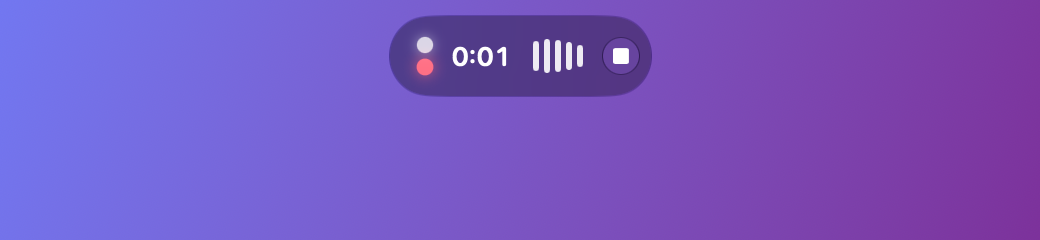
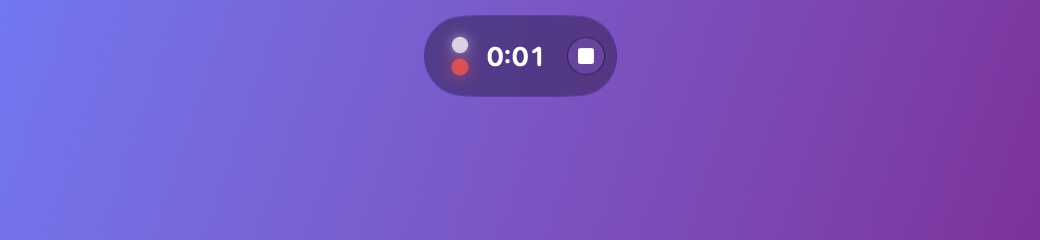
Drop code the app doesn't need
Cuts from an audit for over-engineering: 101 lines fewer, nothing a
call depends on.

- The pill no longer shows a level meter next to the two dots, which
  already show each side's level. Gone with it: the mixed peak in the
  recorder and a pass over every sample of each IO cycle. "Sound is
  coming in" now comes from the two sides' peaks.
- "Transcribing…" is the progress bar's own label; the shimmer above
  the bar showed the same thing twice.
- The two dots are one NSViewRepresentable instead of a view wrapping
  one. Their size and VoiceOver label are on the view itself.
- One Failure error instead of two identical ones, registered defaults
  instead of a bool(forKey:default:) helper, the Welcome step's icon
  inline, the menu's row style private.
- Info.plist leaves out LSMinimumSystemVersion, which Xcode adds from
  the deployment target (checked in the built app), and a display name
  that only repeated the bundle name.
- Unused flexibility: get()'s scope, and Equatable and Hashable
  conformances nothing used.

Kept: the Record button's own capsule style. A system .glassProminent
button draws dimmed in the island's panel even with controlActiveState
set to key.

Checked: the tests pass; the snapshot studio's island, Welcome and
menu match the README's apart from the meter. The README's pill
screenshots are new; island.gif and island.mp4 still show the meter.

Changed region(s): [[0.3692, 0.0583, 0.6462, 0.4083]]

diff --git a/Reprise/UI/Island.swift b/Reprise/UI/Island.swift
@@ -228,7 +228,7 @@ private struct ScreenToggle: View {
     }
 }
 
-/// Compact while you're on the call (two dots + timer); hover to see the level and the stop button.
+/// Compact while you're on the call (two dots + timer); hover to see the stop button.
 private struct RecordingContent: View {
     let model: AppModel
     @State private var expanded = false
@@ -242,8 +242,6 @@ private struct RecordingContent: View {
             ElapsedTime(since: model.session?.recording.startedAt ?? .now)
                 .font(.system(.body, design: .rounded).weight(.semibold))
             if expanded {
-                LevelMeter(level: model.level)
-                    .transition(.scale(scale: 0.6).combined(with: .opacity))
                 Button {
                     Task { await model.stopRecording() }
                 } label: {
@@ -332,58 +330,17 @@ struct ElapsedTime: View {
     }
 }
 
-/// Five bars: the call's loudness over the last third of a second, newest on the right.
-struct LevelMeter: View {
-    let level: () -> Float
-    @State private var history = [Double](repeating: 0, count: 5)
-
-    var body: some View {
-        TimelineView(.animation(minimumInterval: 1 / 15)) { context in
-            HStack(spacing: 2.5) {
-                ForEach(history.indices, id: \.self) { i in
-                    Capsule()
-                        .fill(.white.opacity(0.9))
-                        .frame(width: 3, height: 4 + 16 * history[i])
-                }
-            }
-            .frame(height: 20)
-            .onChange(of: context.date) { history = Array(history.dropFirst()) + [Self.normalize(level())] }
-        }
-    }
-
-    /// Rises fast, falls slowly, like a VU meter.
-    static func follow(_ current: Double, _ peak: Float) -> Double {
-        let target = normalize(peak)
-        return current + (target - current) * (target > current ? 0.6 : 0.12)
-    }
-
-    /// dBFS → 0...1 over a -50…0 dB window, which is where speech lives.
-    static func normalize(_ peak: Float) -> Double {
-        guard peak > 0 else { return 0 }
-        return min(1, max(0, (20 * log10(Double(peak)) + 50) / 50))
-    }
-}
-
 /// The logo's two dots, alive: the top one is you, the red one is everyone else.
 /// Each lights up when its side speaks, so a glance shows that both sides are recorded.
-struct VoiceDots: View {
-    let levels: () -> (you: Float, them: Float)
-
-    var body: some View {
-        DotLayers(levels: levels)
-            .frame(width: 7, height: 18)
-            .accessibilityElement()
-            .accessibilityLabel("Recording you and the other people")
-    }
-}
-
+///
 /// Core Animation layers on a 15 Hz timer. As a SwiftUI timeline, every tick laid out and
 /// redrew the whole island: 6% CPU for the whole call. Changing a layer's opacity costs nothing.
-private struct DotLayers: NSViewRepresentable {
+struct VoiceDots: NSViewRepresentable {
     let levels: () -> (you: Float, them: Float)
 
     func makeNSView(context: Context) -> DotsView { DotsView(levels: levels) }
     func updateNSView(_ view: DotsView, context: Context) { view.levels = levels }
+    func sizeThatFits(_ proposal: ProposedViewSize, nsView: DotsView, context: Context) -> CGSize? { CGSize(width: 7, height: 18) }
 
     final class DotsView: NSView {
         var levels: () -> (you: Float, them: Float)
@@ -395,6 +352,9 @@ private struct DotLayers: NSViewRepresentable {
             self.levels = levels
             super.init(frame: CGRect(x: 0, y: 0, width: 7, height: 18))
             wantsLayer = true
+            setAccessibilityElement(true)
+            setAccessibilityRole(.image)
+            setAccessibilityLabel("Recording you and the other people")
             for (dot, (color, y)) in zip(dots, [(NSColor.white, 11.0), (.systemRed, 0)]) {
                 dot.frame = CGRect(x: 0, y: y, width: 7, height: 7)
                 dot.cornerRadius = 3.5
@@ -424,7 +384,7 @@ private struct DotLayers: NSViewRepresentable {
 
         private func show() {
             let peaks = levels()
-            shown = [LevelMeter.follow(shown[0], peaks.you), LevelMeter.follow(shown[1], peaks.them)]
+            shown = [Self.follow(shown[0], peaks.you), Self.follow(shown[1], peaks.them)]
             CATransaction.begin()
             CATransaction.setDisableActions(true)
             for (dot, level) in zip(dots, shown) {
@@ -434,6 +394,12 @@ private struct DotLayers: NSViewRepresentable {
                 dot.setAffineTransform(CGAffineTransform(scaleX: 1 + 0.25 * level, y: 1 + 0.25 * level))
             }
             CATransaction.commit()
+        }
+
+        /// Rises fast, falls slowly, like a VU meter, over a -50…0 dBFS window, where speech lives.
+        private static func follow(_ current: Double, _ peak: Float) -> Double {
+            let target = peak > 0 ? min(1, max(0, (20 * log10(Double(peak)) + 50) / 50)) : 0
+            return current + (target - current) * (target > current ? 0.6 : 0.12)
         }
     }
 }

diff --git a/Reprise/Capture/AudioRecorder.swift b/Reprise/Capture/AudioRecorder.swift
@@ -26,7 +26,6 @@ nonisolated final class AudioRecorder: @unchecked Sendable {
     private var micChannels = 0
     /// Host time right after the last sound in the file.
     private var end: UInt64?
-    private let peak = Mutex<Float>(0)
     private let voices = Mutex<(you: Float, them: Float)>((0, 0))
     private let heard = Mutex(false)
     private let heardThem = Mutex(false)
@@ -64,9 +63,6 @@ nonisolated final class AudioRecorder: @unchecked Sendable {
             AVEncoderAudioQualityKey: AVAudioQuality.high.rawValue,
         ]
     }
-
-    /// Peak level (0...1) since the last read; read it from the UI at frame rate.
-    func readLevel() -> Float { peak.withLock { level in defer { level = 0 }; return level } }
 
     /// Peak of each side (0...1) since the last read: the mic, and everyone else.
     func readVoices() -> (you: Float, them: Float) { voices.withLock { peaks in defer { peaks = (0, 0) }; return peaks } }
@@ -188,10 +184,8 @@ nonisolated final class AudioRecorder: @unchecked Sendable {
         let buffers = UnsafeMutableAudioBufferListPointer(UnsafeMutablePointer(mutating: input))
         let (frames, you, them) = Self.mixDown(buffers, micChannels: micChannels, into: out, capacity: Int(mix.frameCapacity))
         guard frames > 0 else { return }
-        let loudest = (0..<frames).reduce(Float(0)) { max($0, abs(out[$1])) }
-        peak.withLock { $0 = max($0, loudest) }
         voices.withLock { $0 = (max($0.you, you), max($0.them, them)) }
-        if loudest > 0 { heard.withLock { $0 = true } }
+        if you > 0 || them > 0 { heard.withLock { $0 = true } }
         if them > 0 { heardThem.withLock { $0 = true } }
         mix.frameLength = AVAudioFrameCount(frames)
         // Sound lost to a stalled cycle or a microphone change comes back as silence, so the file

diff --git a/Reprise/App/AppModel.swift b/Reprise/App/AppModel.swift
@@ -132,7 +132,7 @@ enum IslandState: Equatable {
             session = Session(recording: recording, audio: audio, screen: screen)
             log.notice("Recording started: \(recording.id, privacy: .public), screen: \(screen != nil)")
             store.save(recording) // visible in the library right away, even if Reprise quits mid-call
-            pillHidden = !UserDefaults.standard.bool(forKey: "showRecordingPill", default: true)
+            pillHidden = !UserDefaults.standard.bool(forKey: "showRecordingPill")
             pillHidden ? show(.recording, for: .seconds(2)) : show(.recording)
             if let screenProblem { show(.problem(screenProblem), for: .seconds(8)) }
             Task { await watch(recording.id, audio) }
@@ -305,14 +305,6 @@ enum IslandState: Equatable {
     func debugShow(_ state: IslandState) { island = state }
     #endif
 
-    /// Current input level for the live meter, 0...1.
-    func level() -> Float {
-        #if DEBUG
-        if session == nil, DebugSnapshots.isRunning { return .random(in: 0.02...0.45) }
-        #endif
-        return session?.audio.readLevel() ?? 0
-    }
-
     /// Each side's level for the pill's two dots, 0...1.
     func voices() -> (you: Float, them: Float) {
         #if DEBUG
@@ -372,8 +364,7 @@ enum IslandState: Equatable {
     }
 }
 
-extension UserDefaults {
-    func bool(forKey key: String, default fallback: Bool) -> Bool {
-        object(forKey: key) == nil ? fallback : bool(forKey: key)
-    }
+/// An error that is only its message.
+nonisolated struct Failure: LocalizedError {
+    let errorDescription: String?
 }

diff --git a/Reprise/UI/WelcomeView.swift b/Reprise/UI/WelcomeView.swift
@@ -104,7 +104,11 @@ private struct Step: View {
 
     var body: some View {
         HStack(spacing: 14) {
-            StepIcon(icon: icon, tint: tint)
+            // A tinted symbol, the way Apple's own Mac apps list what they need on first launch.
+            Image(systemName: icon)
+                .font(.system(size: 22))
+                .foregroundStyle(tint)
+                .frame(width: 32)
             VStack(alignment: .leading, spacing: 1) {
                 Text(title).fontWeight(.medium)
                 Text(detail).font(.callout).foregroundStyle(.secondary)
@@ -127,19 +131,6 @@ private struct Step: View {
         .padding(.vertical, 8)
         .animation(.spring(duration: 0.4, bounce: 0.35), value: done)
         .animation(.smooth, value: actionTitle)
-    }
-}
-
-/// A tinted symbol, the way Apple's own Mac apps list what they need on first launch.
-private struct StepIcon: View {
-    let icon: String
-    let tint: Color
-
-    var body: some View {
-        Image(systemName: icon)
-            .font(.system(size: 22))
-            .foregroundStyle(tint)
-            .frame(width: 32)
     }
 }
 
@@ -194,7 +185,6 @@ private struct Demo: View {
                     HStack(spacing: 8) {
                         VoiceDots { (.random(in: 0...0.3), .random(in: 0.1...0.6)) }
                         Text("0:12").font(.callout.weight(.semibold)).monospacedDigit()
-                        LevelMeter { Float.random(in: 0.05...0.6) }.scaleEffect(0.8)
                     }
                     .padding(.horizontal, 14)
                     .frame(height: 34)

diff --git a/Reprise/UI/LibraryView.swift b/Reprise/UI/LibraryView.swift
@@ -466,10 +466,7 @@ private struct TranscriptSection: View {
 
             Group {
                 if let progress = model.transcribing[recording.id] {
-                    VStack(alignment: .leading, spacing: 10) {
-                        Text("Transcribing…").shimmering()
-                        ProgressView(value: progress).progressViewStyle(.linear)
-                    }
+                    ProgressView("Transcribing…", value: progress)
                 } else if let text = model.store.transcript(of: recording) {
                     Text(text)
                         .textSelection(.enabled)
@@ -501,26 +498,4 @@ private struct TranscriptSection: View {
             .animation(.smooth, value: model.transcribing[recording.id] == nil)
         }
     }
-}
-
-private struct Shimmer: ViewModifier {
-    @State private var phase: CGFloat = -1
-
-    func body(content: Content) -> some View {
-        content
-            .foregroundStyle(.secondary)
-            .overlay {
-                LinearGradient(colors: [.clear, .primary, .clear], startPoint: .leading, endPoint: .trailing)
-                    .scaleEffect(x: 0.6)
-                    .offset(x: phase * 160)
-                    .mask(content)
-            }
-            .onAppear {
-                withAnimation(.linear(duration: 1.4).repeatForever(autoreverses: false)) { phase = 1 }
-            }
-    }
-}
-
-extension View {
-    func shimmering() -> some View { modifier(Shimmer()) }
 }

diff --git a/Reprise/UI/MenuBarView.swift b/Reprise/UI/MenuBarView.swift
@@ -47,7 +47,7 @@ struct MenuBarView: View {
             Button("Quit Reprise") { NSApp.terminate(nil) }
                 .keyboardShortcut("q")
         }
-        .buttonStyle(.rowHighlight)
+        .buttonStyle(RowHighlightButtonStyle())
         .padding(5)
         .frame(width: 300)
     }
@@ -169,7 +169,7 @@ private struct RecentRow: View {
 }
 
 /// Menu-like rows: flat until hovered.
-struct RowHighlightButtonStyle: ButtonStyle {
+private struct RowHighlightButtonStyle: ButtonStyle {
     @State private var hovering = false
 
     func makeBody(configuration: Configuration) -> some View {
@@ -183,8 +183,4 @@ struct RowHighlightButtonStyle: ButtonStyle {
             .onHover { hovering = $0 }
             .animation(.easeOut(duration: 0.12), value: hovering)
     }
-}
-
-extension ButtonStyle where Self == RowHighlightButtonStyle {
-    static var rowHighlight: RowHighlightButtonStyle { .init() }
 }

diff --git a/Reprise/Capture/CoreAudio.swift b/Reprise/Capture/CoreAudio.swift
@@ -27,8 +27,8 @@ nonisolated extension AudioObjectID {
         system.get(kAudioHardwarePropertyDefaultOutputDevice, unknown)
     }
 
-    func get<T: BitwiseCopyable>(_ selector: AudioObjectPropertySelector, scope: AudioObjectPropertyScope = kAudioObjectPropertyScopeGlobal, _ fallback: T) -> T {
-        var address = AudioObjectPropertyAddress(mSelector: selector, mScope: scope, mElement: kAudioObjectPropertyElementMain)
+    func get<T: BitwiseCopyable>(_ selector: AudioObjectPropertySelector, _ fallback: T) -> T {
+        var address = AudioObjectPropertyAddress(mSelector: selector, mScope: kAudioObjectPropertyScopeGlobal, mElement: kAudioObjectPropertyElementMain)
         var size = UInt32(MemoryLayout<T>.size)
         var value = fallback
         return AudioObjectGetPropertyData(self, &address, 0, nil, &size, &value) == noErr ? value : fallback

diff --git a/Reprise/App/Updater.swift b/Reprise/App/Updater.swift
@@ -30,7 +30,7 @@ import Security
     private init() {
         Task {
             while true {
-                if UserDefaults.standard.bool(forKey: Self.autoKey, default: true) { await check(quietly: true) }
+                if UserDefaults.standard.bool(forKey: Self.autoKey) { await check(quietly: true) }
                 try? await Task.sleep(for: .seconds(24 * 60 * 60))
             }
         }
@@ -71,10 +71,6 @@ import Security
                 state = .failed(error.localizedDescription, release)
             }
         }
-    }
-
-    struct Failure: LocalizedError {
-        let errorDescription: String?
     }
 
     private nonisolated static func latest() async throws -> Release {

diff --git a/Reprise/Transcription/Transcriber.swift b/Reprise/Transcription/Transcriber.swift
@@ -3,7 +3,7 @@ import Security
 
 /// Any service that speaks the OpenAI `POST /audio/transcriptions` dialect:
 /// OpenAI, Groq, Mistral, or a local whisper server (speaches, whisper.cpp, LocalAI…).
-nonisolated struct TranscriptionService: Equatable, Sendable {
+nonisolated struct TranscriptionService: Sendable {
     var baseURL: String
     var model: String
 
@@ -43,10 +43,6 @@ enum TranscriptionSettings {
 }
 
 nonisolated enum Transcriber {
-    struct Failure: LocalizedError {
-        let errorDescription: String?
-    }
-
     /// Long recordings are split into 10-minute pieces to stay under the
     /// 25 MB / duration limits most providers enforce.
     static func transcribe(

diff --git a/Reprise/Library/RecordingStore.swift b/Reprise/Library/RecordingStore.swift
@@ -5,7 +5,7 @@ import AppKit
 /// `~/Movies/Reprise/<id>/{recording.json, audio.m4a, screen.mov, transcript.txt}`
 /// While recording, audio goes to `audio.aac` (ADTS), which stays playable even if the app is
 /// killed mid-call; it's repackaged into `audio.m4a` when the recording stops.
-struct Recording: Codable, Identifiable, Hashable {
+struct Recording: Codable, Identifiable, Equatable {
     let id: String // folder name, e.g. "2026-10-06 21.30.12 Zoom"
     var title: String
     var app: MeetingApp?

diff --git a/Reprise/App/RepriseApp.swift b/Reprise/App/RepriseApp.swift
@@ -7,6 +7,7 @@ struct RepriseApp: App {
     @AppStorage("onboarded") private var onboarded = false
 
     init() {
+        UserDefaults.standard.register(defaults: ["showRecordingPill": true, Updater.autoKey: true])
         if isTesting {
             // The tests run inside the app: they get a scratch library, never the real one.
             setenv("REPRISE_ROOT", FileManager.default.temporaryDirectory.appending(path: "reprise-tests").path, 1)

diff --git a/README.md b/README.md
@@ -43,7 +43,7 @@ The prompt, the pill during a recording, and the result:
 
 <p align="center">
   <picture><source media="(prefers-color-scheme: dark)" srcset="docs/media/island-prompt-dark.png"><img src="docs/media/island-prompt-light.png" width="400" alt="The prompt: Record this call?"></picture><br>
-  <picture><source media="(prefers-color-scheme: dark)" srcset="docs/media/island-recording-dark.png"><img src="docs/media/island-recording-light.png" width="400" alt="The pill: two dots, a timer, a level meter, and a stop button"></picture><br>
+  <picture><source media="(prefers-color-scheme: dark)" srcset="docs/media/island-recording-dark.png"><img src="docs/media/island-recording-light.png" width="400" alt="The pill: two dots, a timer, and a stop button"></picture><br>
   <picture><source media="(prefers-color-scheme: dark)" srcset="docs/media/island-saved-dark.png"><img src="docs/media/island-saved-light.png" width="400" alt="The recording is saved"></picture>
 </p>
 
